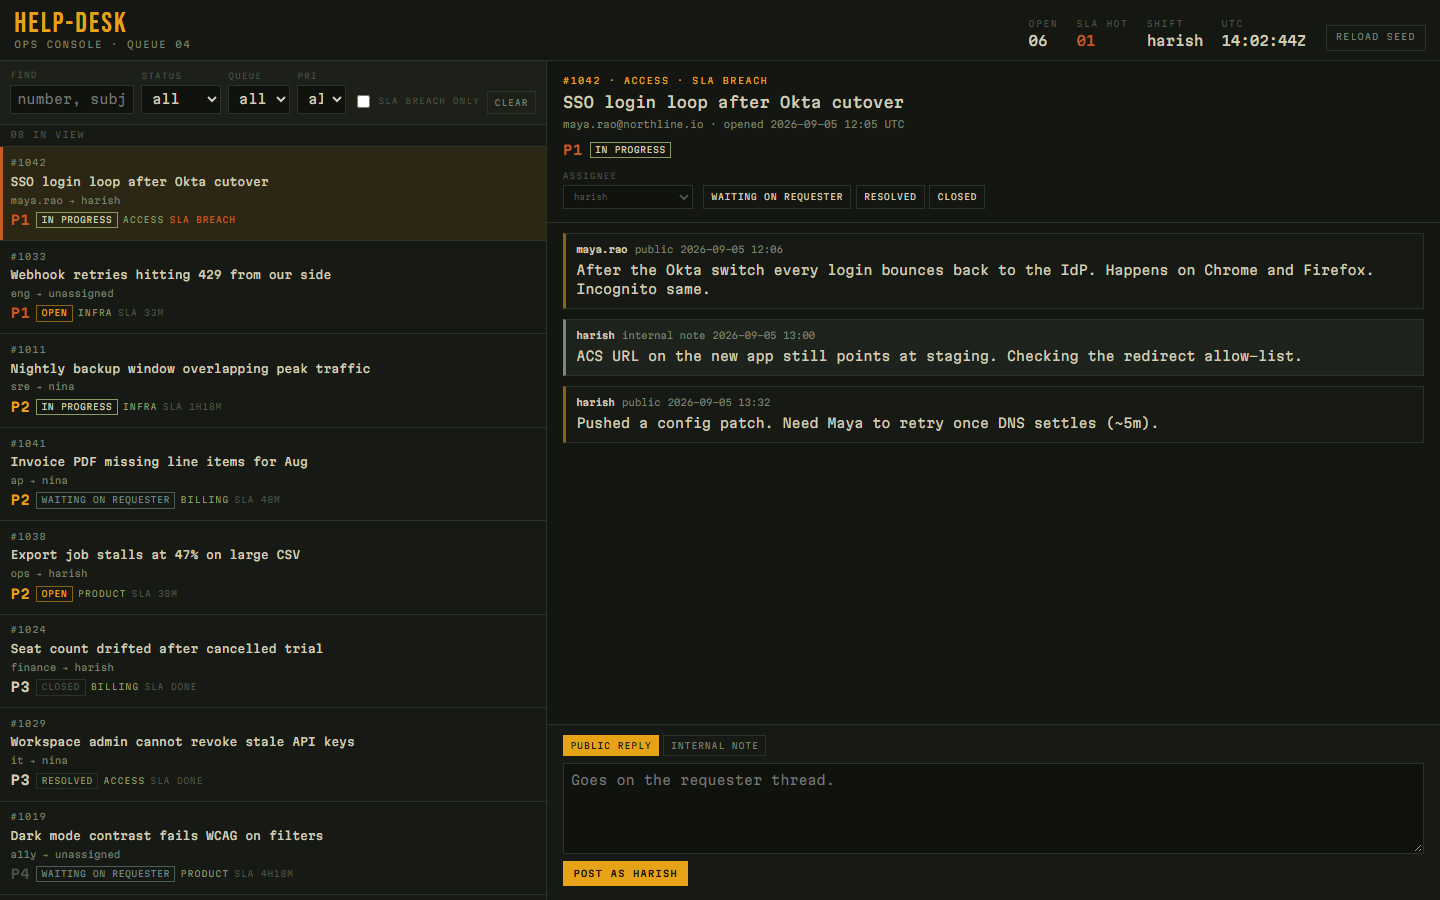
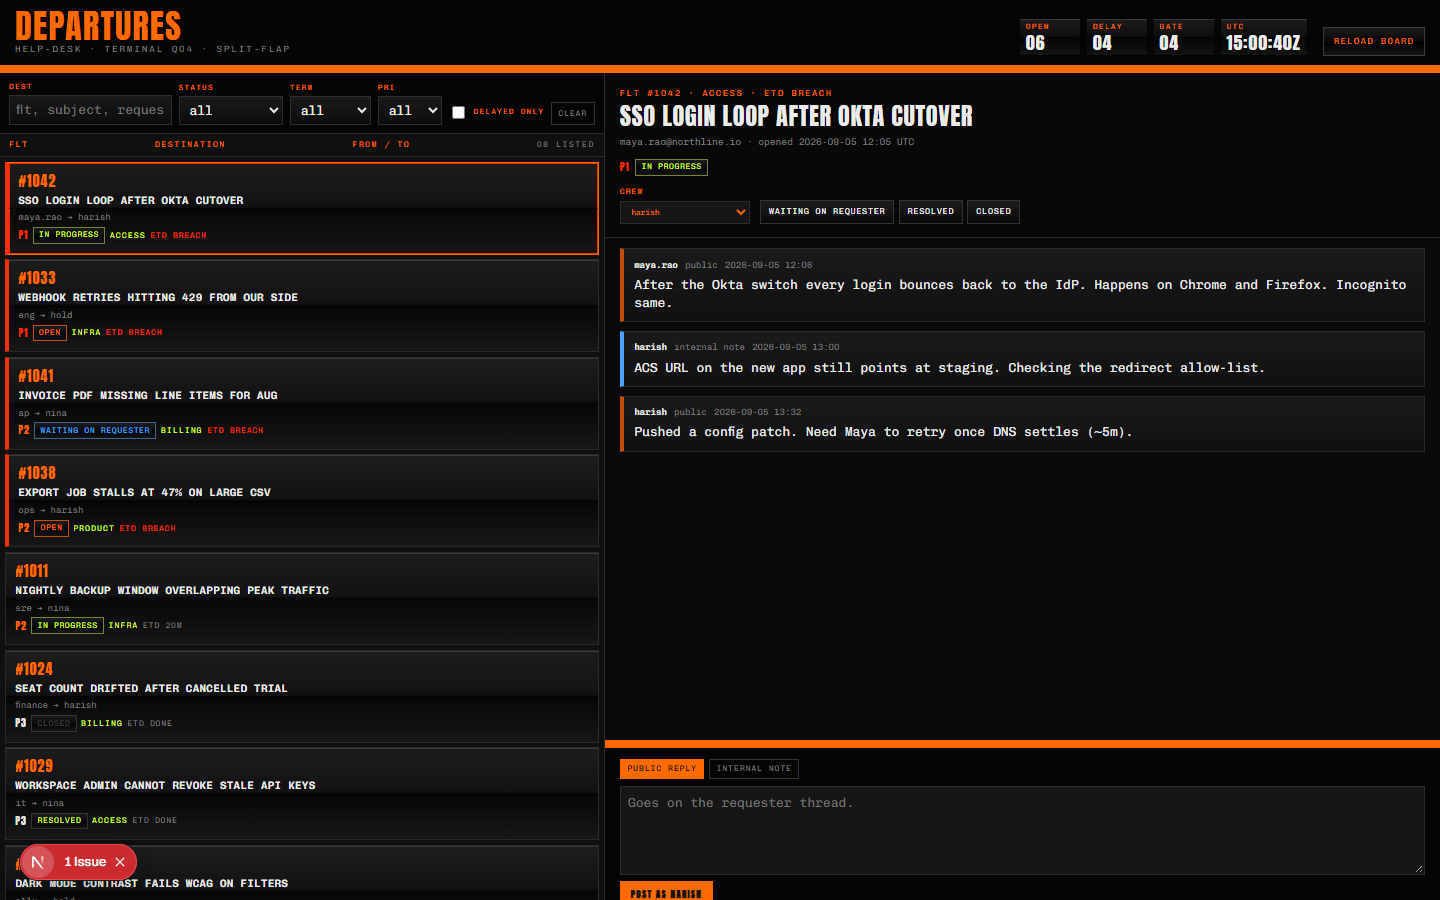
Add FIDS board screenshot and README note for the restyle.

diff --git a/README.md b/README.md
@@ -2,7 +2,7 @@
 
 A spare ops console for a support queue: tickets, status moves, comments, and filters. It is not a claims system.
 
-The board is amber on charcoal, set in **Bebas Neue** for the masthead and **Martian Mono** for everything else. Seeded tickets cover billing, access, product, and infra — including an SLA breach so the hot column is not decorative.
+The board is an **airport FIDS / split-flap** wall: orange-on-black mechanical rows, **Anton** for the mast and destinations, **Chivo Mono** for the rest. Seeded tickets cover billing, access, product, and infra — including an SLA delay so the DELAY flap is not decorative.
 
 ## Run
 
@@ -11,17 +11,17 @@ npm install
 npm run dev
 ```
 
-Open [http://localhost:3000](http://localhost:3000). You should see a two-pane console: queue on the left, thread on the right. Filter by status/queue/priority or “sla breach only”. Change status, reassign, and post a public reply or an internal note. **reload seed** in the masthead restores the original eight tickets (also stored in `localStorage` as `help-desk:v1`).
+Open [http://localhost:3000](http://localhost:3000). You should see a two-pane board: departure list on the left, gate thread on the right. Filter by status/terminal/priority or “delayed only”. Change status, reassign crew, and post a public reply or an internal note. **reload board** in the masthead restores the original eight tickets (also stored in `localStorage` as `help-desk:v1`).
 
 ## Layout
 
 ```
 src/domain   ticket types, status edges, SLA + filter rules
 src/data     seed queue and client store
-src/ui       console chrome, queue, thread
+src/ui       FIDS chrome, flap queue, gate thread
 app          Next.js shell, empty and fault screens
 ```
 
-![help-desk queue](docs/queue.png)
+![help-desk departures board](docs/queue.png)
 
 MIT.
